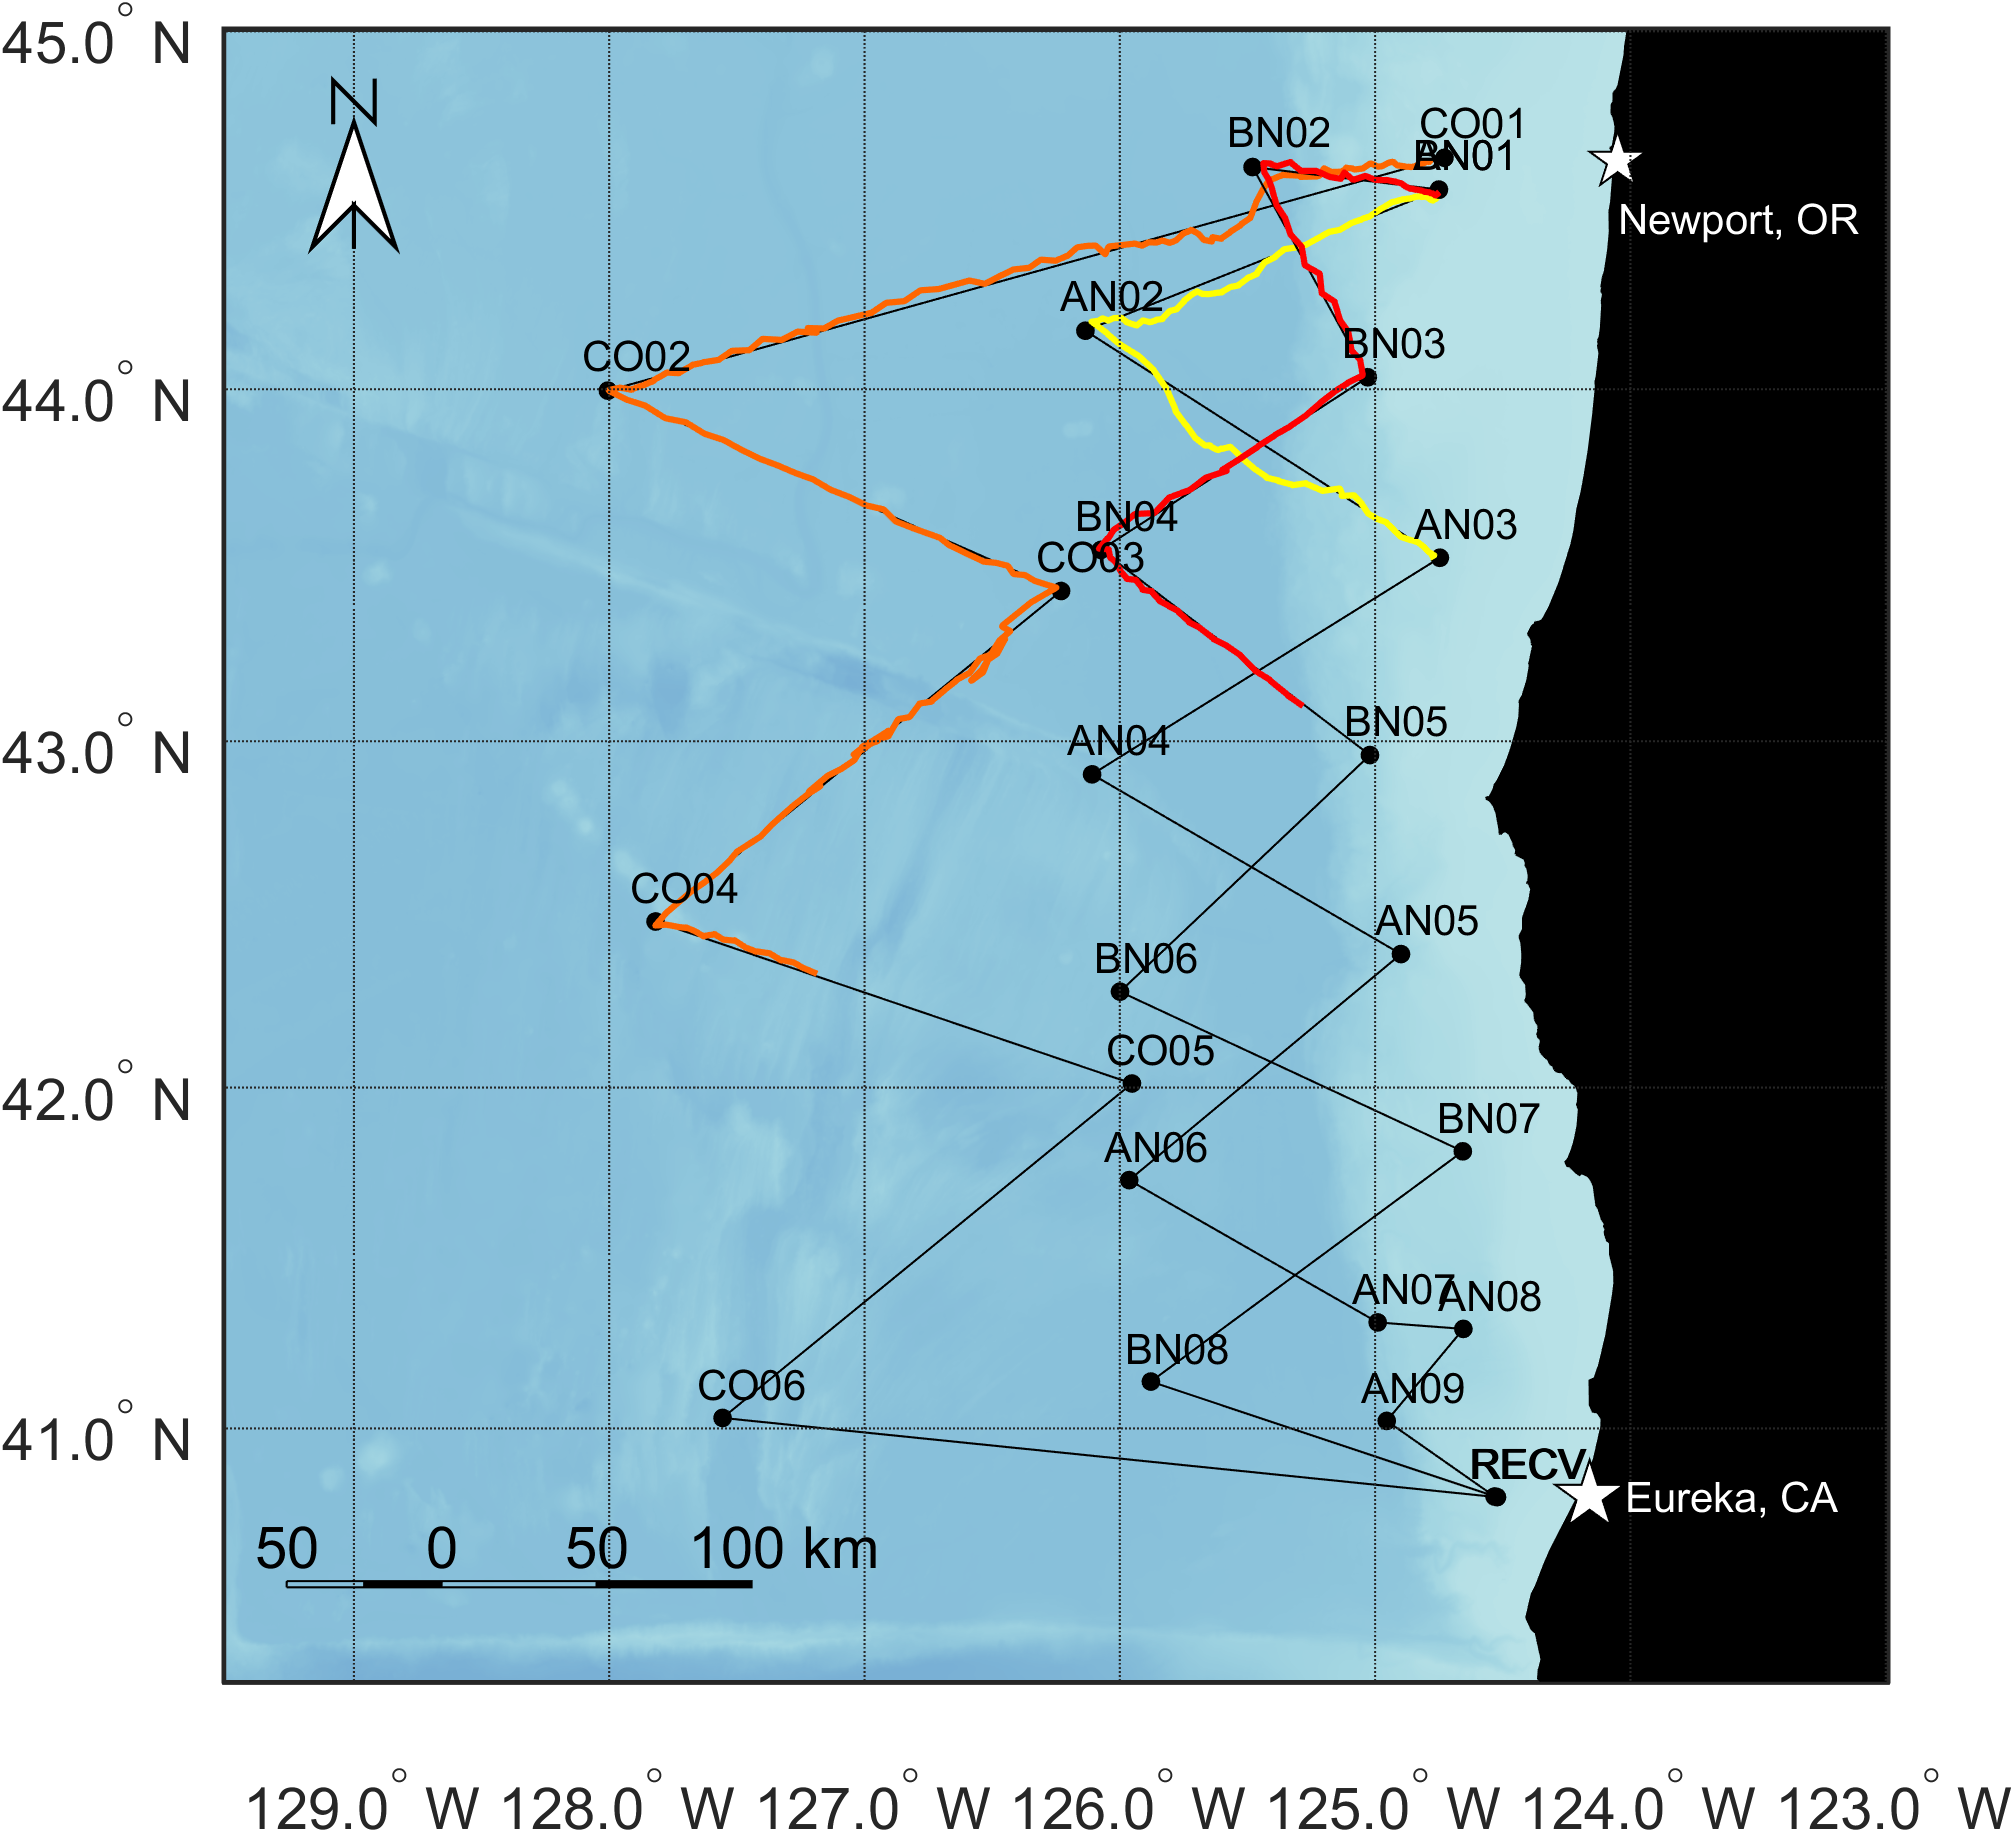
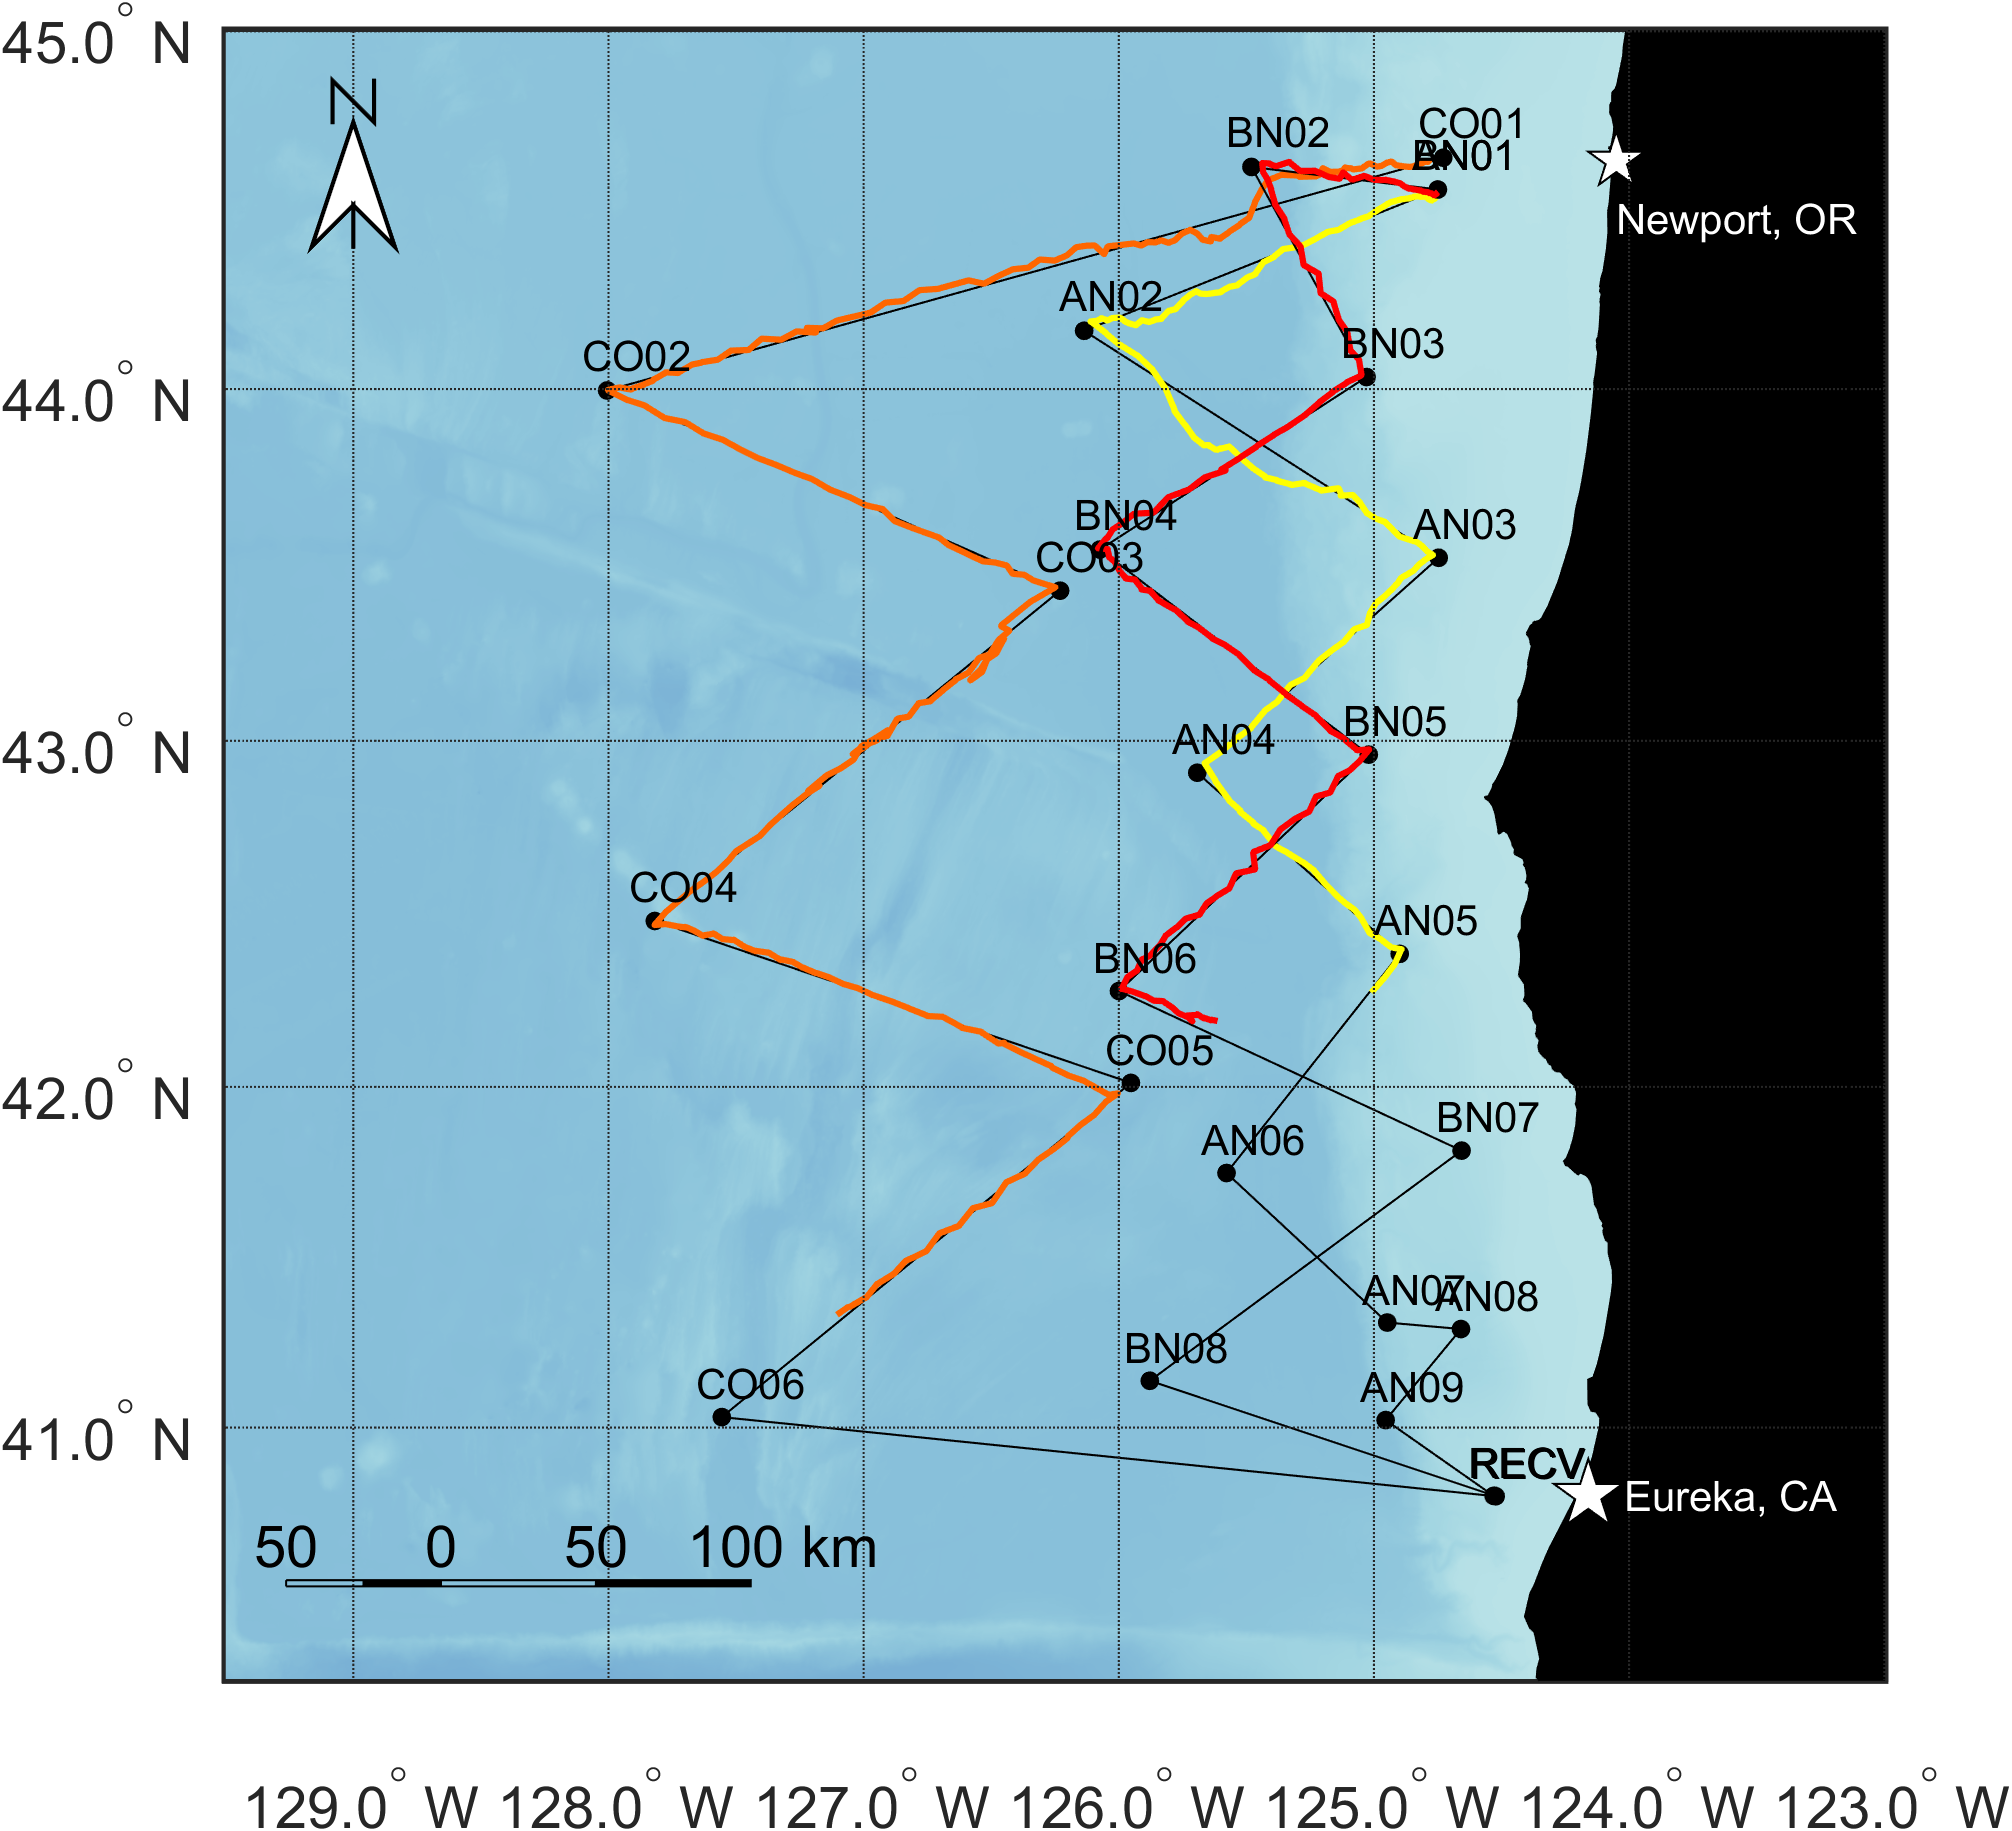
latest map

diff --git a/MATLAB/workflow_downloadScript_CalCurCEAS2024_all.m b/MATLAB/workflow_downloadScript_CalCurCEAS2024_all.m
@@ -37,16 +37,16 @@ addpath(genpath('C:\Users\Selene.Fregosi\Documents\MATLAB\agate'))
 path_repo = 'C:\Users\Selene.Fregosi\Documents\GitHub\glider-CalCurCEAS\';
 
 % specify planned recovery date and time
-recovery = '2024-10-24 09:00:00';
+recovery = '2024-10-24 16:00:00';
 recTZ = 'America/Los_Angeles';
 
 %% set up an All glider map
 
 % set colors
-col_sg639 = [1 1 0];   % yellow - inshore A 
+col_sg639 = [1 1 0];   % yellow - inshore A
 col_sg680 = [1 0 0];   % red - inshore B
 col_sg679 = [1 0.4 0]; % orange - offshore
- 
+
 % load any config file to get started.
 cnfFile = ['C:\Users\Selene.Fregosi\Documents\GitHub\glider-CalCurCEAS\' ...
 	'MATLAB\fregosi_config_files\agate_config_sg639_CalCurCEAS_Sep2024.cnf'];
@@ -95,7 +95,7 @@ writetable(pp, fullfile(path_status, ['diveTracking_' CONFIG.glider '.xlsx']));
 % loaded targets file (interpolated waypoints)
 targetsLoaded = fullfile(CONFIG.path.mission, 'targets');
 % simple targets file (waypoints only at 'turns')
-targetsSimple = fullfile(CONFIG.path.mission, 'targets_A_Nearshore_2024-09-14');
+targetsSimple = fullfile(CONFIG.path.mission, 'targets_A_Nearshore_2024-09-30');
 plotGliderPath_etopo(CONFIG, pp, targetsSimple, CONFIG.map.bathyFile);
 
 % add newport label
@@ -109,7 +109,7 @@ textm(40.8, -124.02, 'Eureka, CA', 'FontSize', 10, 'Color', 'white');
 savefig(fullfile(path_status, [CONFIG.glider '_map.fig']))
 % and as a .png (for quick/easy view)
 exportgraphics(gca, fullfile(path_status, [CONFIG.glider '_map.png']), ...
-    'Resolution', 300)
+	'Resolution', 300)
 
 % (4) print mission summary
 % print errors reported on most recent dive
@@ -117,11 +117,11 @@ printErrors(CONFIG, size(pp,1), pp)
 % print mission/recovery stats
 tm = printTravelMetrics(CONFIG, pp, fullfile(CONFIG.path.mission, 'targets'), 1);
 tm = printRecoveryMetrics(CONFIG, pp, fullfile(CONFIG.path.mission, 'targets'), ...
-recovery, recTZ, 1);
+	recovery, recTZ, 1);
 
 % (5) Add to ALL glider map
 set(0, 'currentfigure', baseFigAll);
-[targets, ~] = readTargetsFile(CONFIG, targetsSimple); 
+[targets, ~] = readTargetsFile(CONFIG, targetsSimple);
 h(1) = plotm(targets.lat, targets.lon, 'Marker', 'o', 'MarkerSize', 4, ...
 	'MarkerEdgeColor', [0 0 0], 'MarkerFaceColor', [0 0 0], 'Color', [0 0 0], ...
 	'HandleVisibility', 'off');
@@ -150,6 +150,11 @@ downloadBasestationFiles(CONFIG);
 pp = extractPilotingParams(CONFIG, fullfile(CONFIG.path.mission, 'basestationFiles'), ...
 	fullfile(CONFIG.path.mission, 'flightStatus'), 1);
 % change last argument from 0 to 1 to load existing data and append new dives/rows
+% Dive 121-123 had 5 bad GPS readings so dist over ground calc is bad
+% manually set and saved based on 12 km btwn end 121 and end 123. 
+% only have to run once or again if pp is not preloaded. 
+% pp.dog_km(122) = 6;
+% pp.dog_km(123) = 6;
 
 % save it to the default location as .mat and .xlsx
 save(fullfile(CONFIG.path.mission, 'flightStatus', ['diveTracking_' ...
@@ -175,7 +180,7 @@ textm(40.8, -124.02, 'Eureka, CA', 'FontSize', 10, 'Color', 'white');
 savefig(fullfile(path_status, [CONFIG.glider '_map.fig']))
 % and as a .png (for quick/easy view)
 exportgraphics(gca, fullfile(path_status, [CONFIG.glider '_map.png']), ...
-    'Resolution', 300)
+	'Resolution', 300)
 
 % (4) print mission summary
 % print errors reported on most recent dive
@@ -183,11 +188,11 @@ printErrors(CONFIG, size(pp,1), pp)
 % print mission/recovery stats
 tm = printTravelMetrics(CONFIG, pp, fullfile(CONFIG.path.mission, 'targets'), 1);
 tm = printRecoveryMetrics(CONFIG, pp, fullfile(CONFIG.path.mission, 'targets'), ...
-recovery, recTZ, 1);
+	recovery, recTZ, 1);
 
 % (5) Add to ALL glider map
 set(0, 'currentfigure', baseFigAll);
-[targets, ~] = readTargetsFile(CONFIG, targetsSimple); 
+[targets, ~] = readTargetsFile(CONFIG, targetsSimple);
 h(1) = plotm(targets.lat, targets.lon, 'Marker', 'o', 'MarkerSize', 4, ...
 	'MarkerEdgeColor', [0 0 0], 'MarkerFaceColor', [0 0 0], 'Color', [0 0 0], ...
 	'HandleVisibility', 'off');
@@ -243,7 +248,7 @@ textm(40.8, -124.02, 'Eureka, CA', 'FontSize', 10, 'Color', 'white');
 savefig(fullfile(path_status, [CONFIG.glider '_map.fig']))
 % and as a .png (for quick/easy view)
 exportgraphics(gca, fullfile(path_status, [CONFIG.glider '_map.png']), ...
-    'Resolution', 300)
+	'Resolution', 300)
 
 % (4) print mission summary
 % print errors reported on most recent dive
@@ -251,11 +256,11 @@ printErrors(CONFIG, size(pp,1), pp)
 % print mission/recovery stats
 tm = printTravelMetrics(CONFIG, pp, fullfile(CONFIG.path.mission, 'targets'), 1);
 tm = printRecoveryMetrics(CONFIG, pp, fullfile(CONFIG.path.mission, 'targets'), ...
-recovery, recTZ, 1);
+	recovery, recTZ, 1);
 
 % (5) Add to ALL glider map
 set(0, 'currentfigure', baseFigAll);
-[targets, ~] = readTargetsFile(CONFIG, targetsSimple); 
+[targets, ~] = readTargetsFile(CONFIG, targetsSimple);
 h(1) = plotm(targets.lat, targets.lon, 'Marker', 'o', 'MarkerSize', 4, ...
 	'MarkerEdgeColor', [0 0 0], 'MarkerFaceColor', [0 0 0], 'Color', [0 0 0], ...
 	'HandleVisibility', 'off');
@@ -269,7 +274,7 @@ h(2) = plotm(lat, lon, 'Color', col_sg680, 'LineWidth', 1.5, ...
 
 set(0, 'currentfigure', baseFigAll);
 exportgraphics(gca, fullfile(path_repo, 'maps', 'allGliders_progressMap.png'), ...
-    'Resolution', 300);
+	'Resolution', 300);
 
 
 
